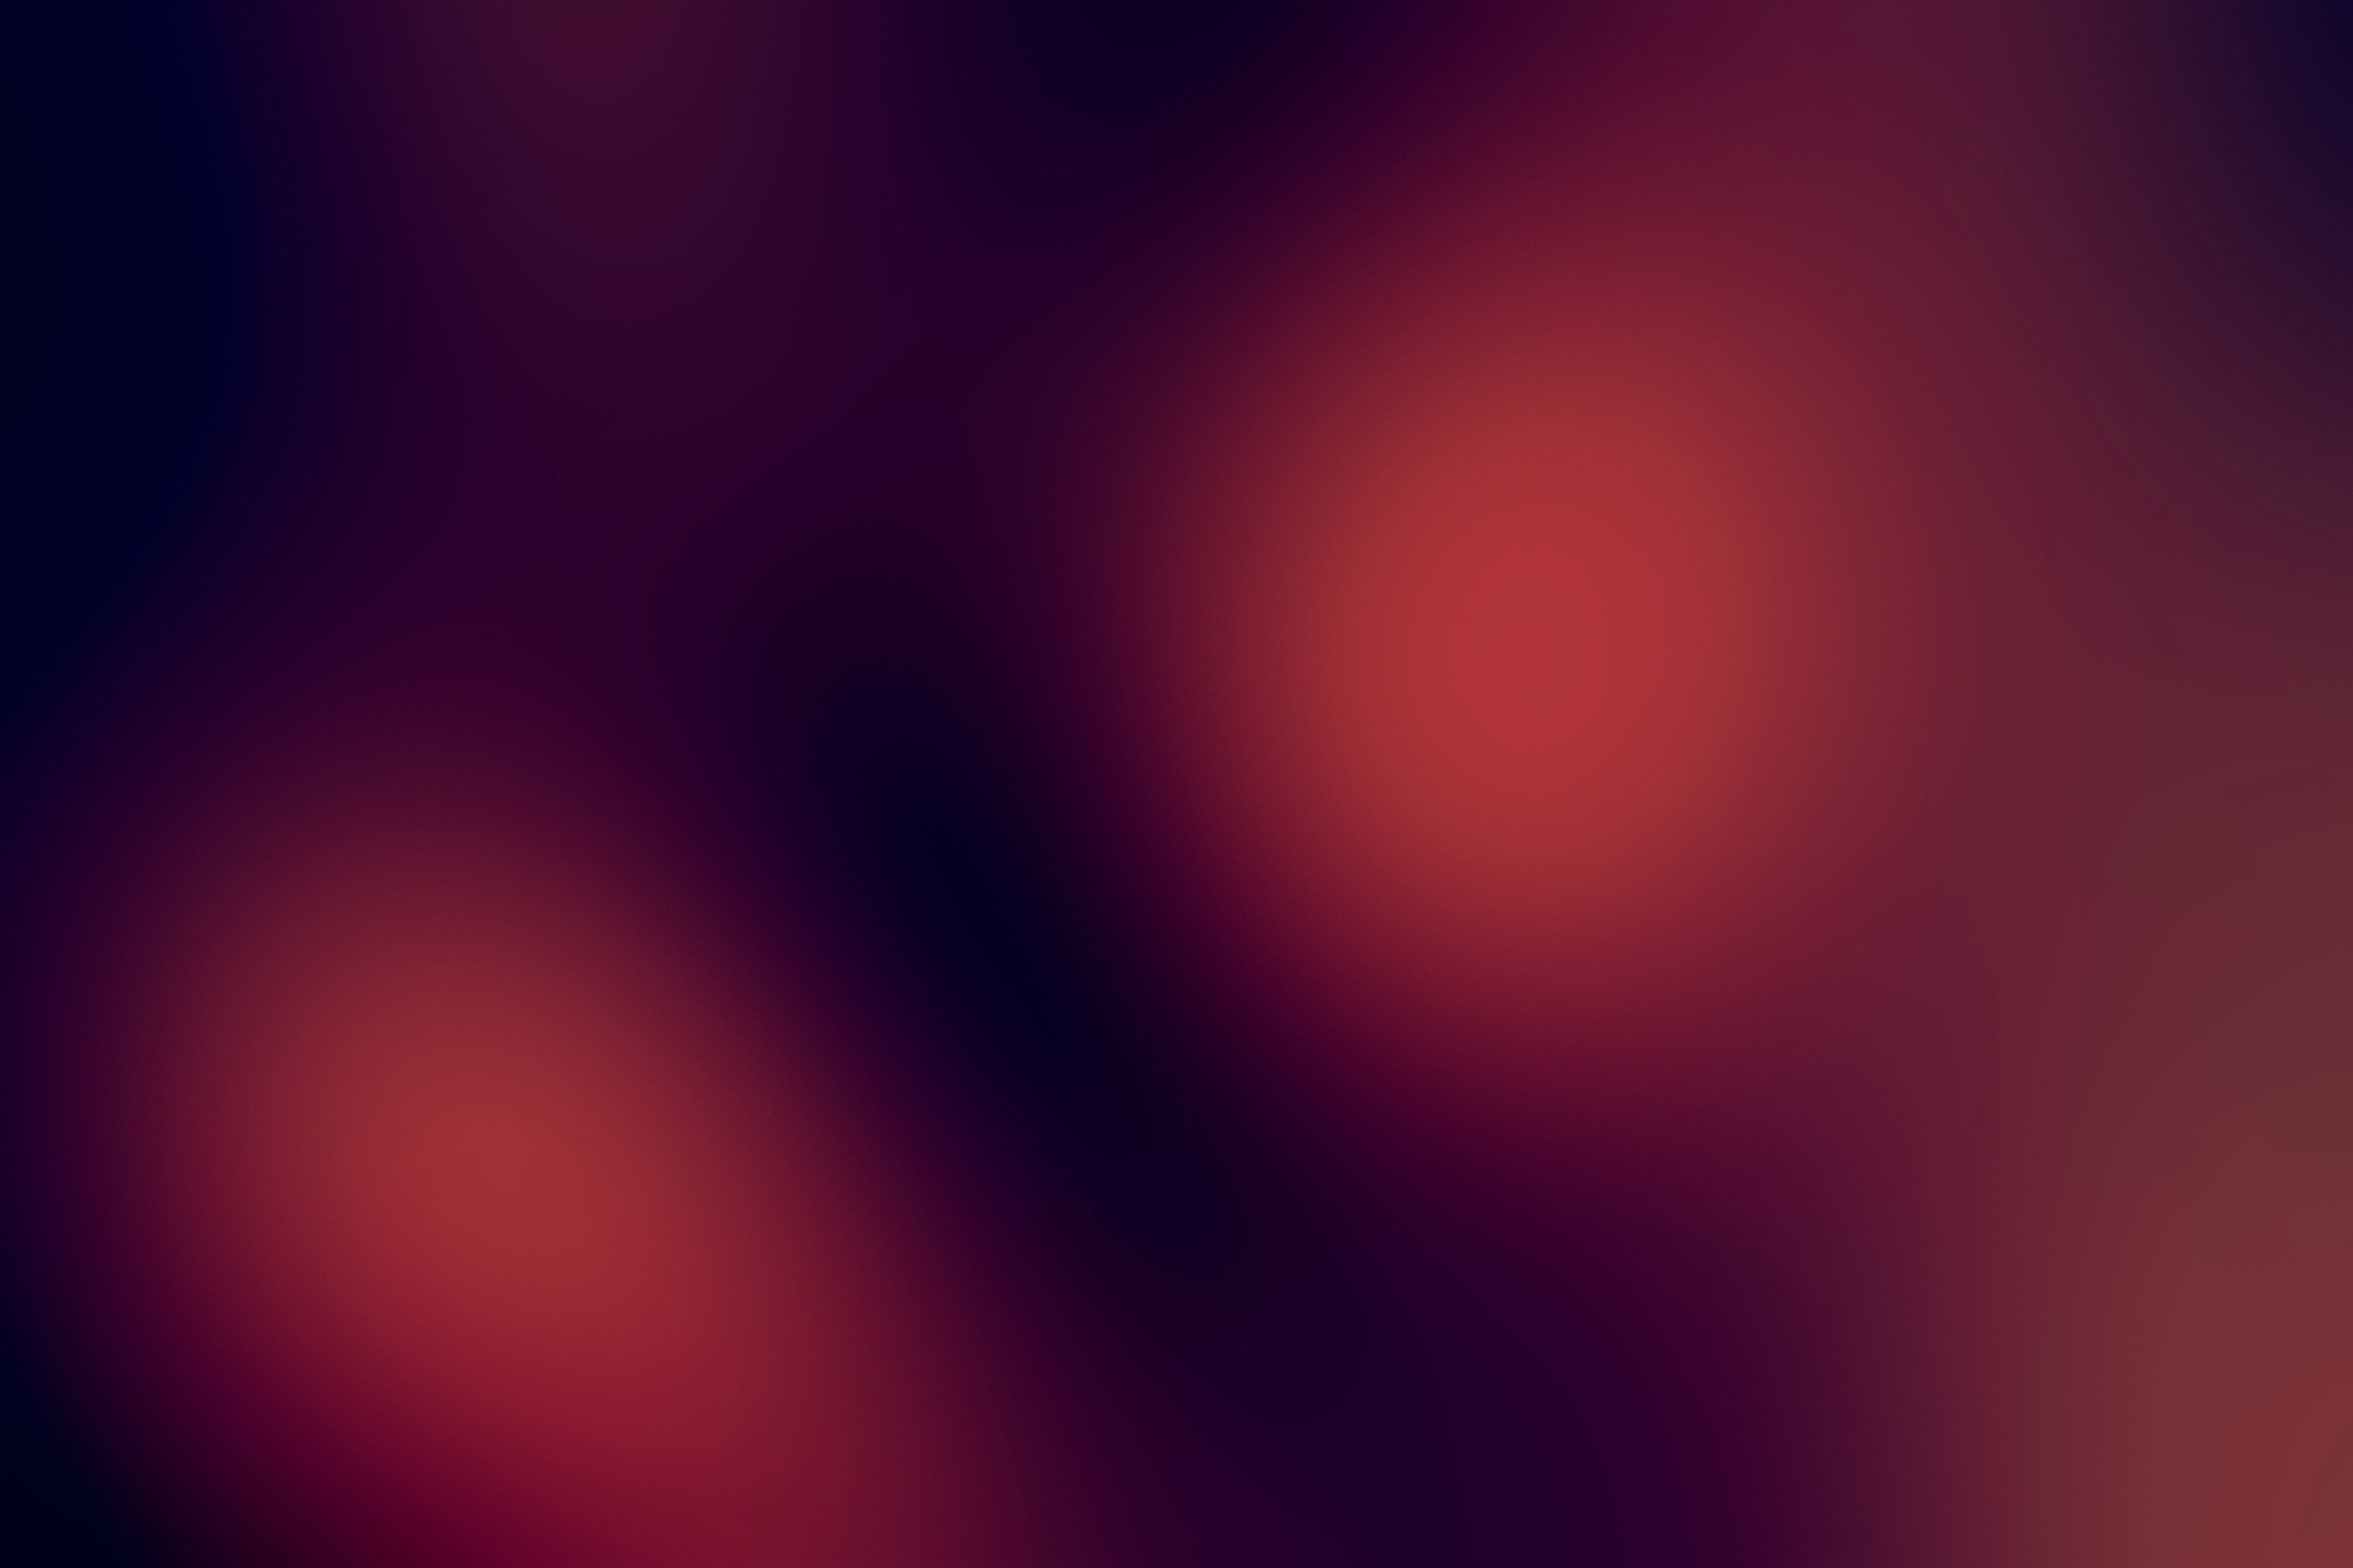
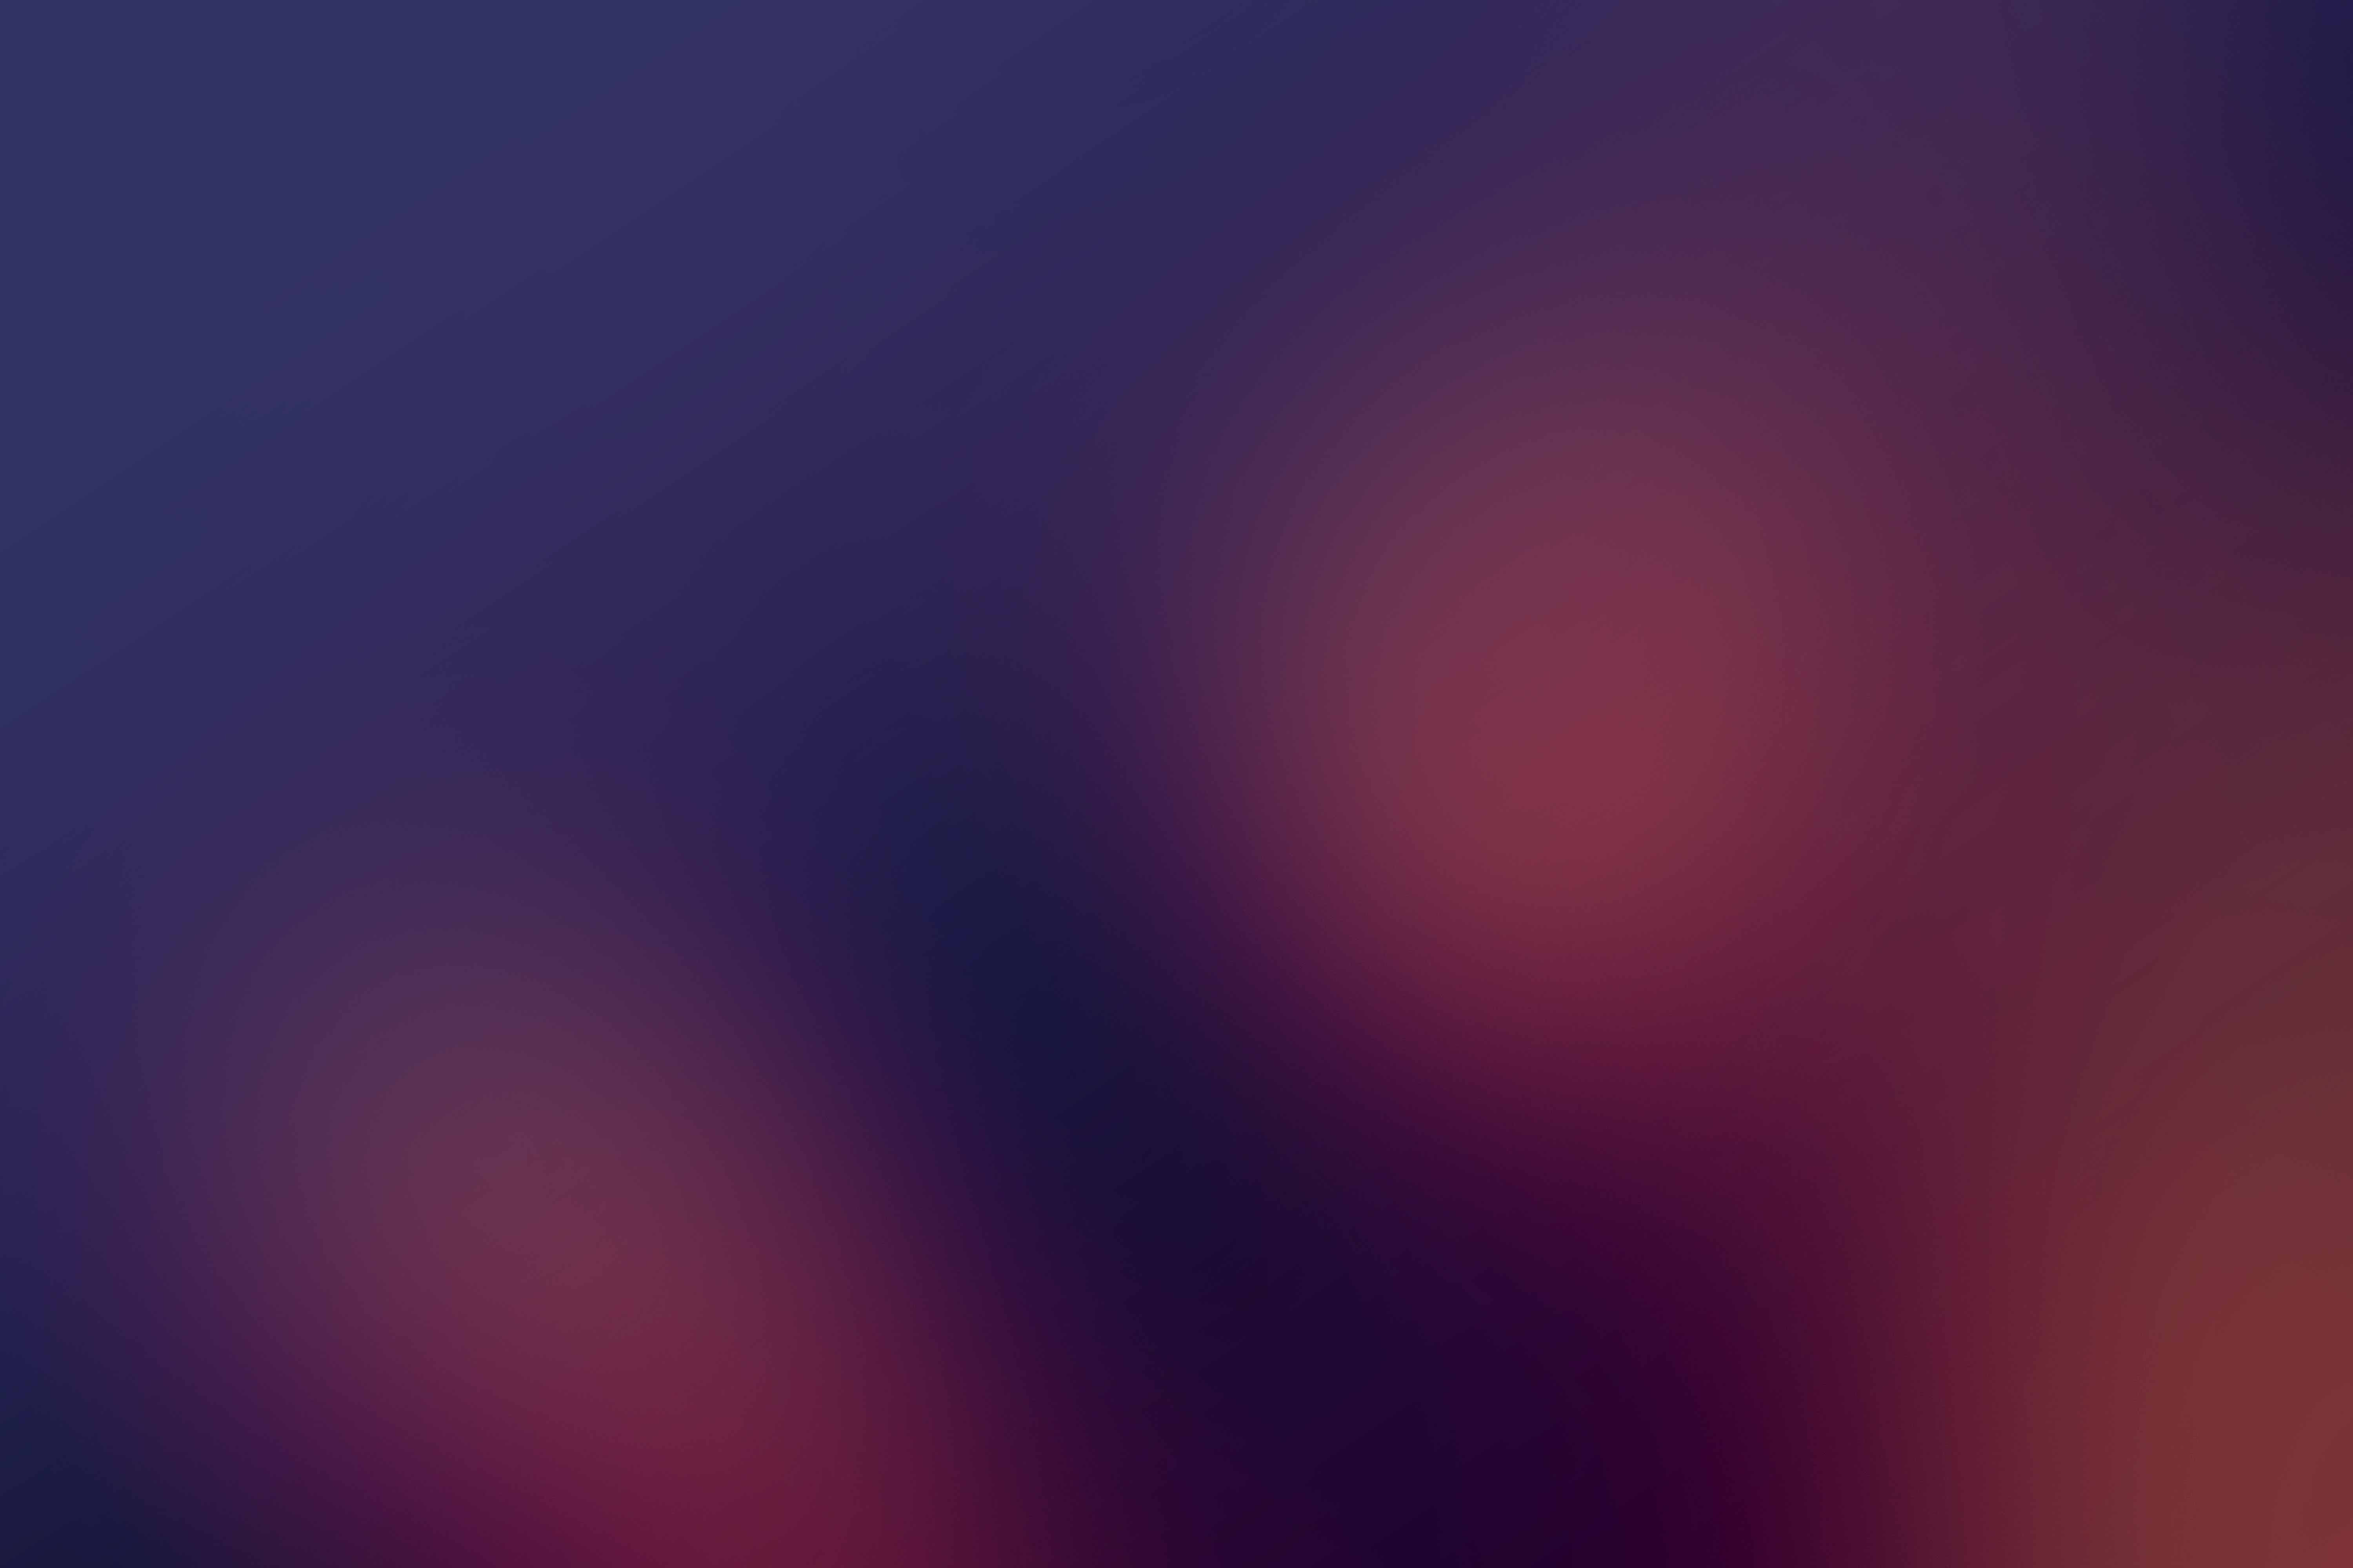
finsihed UI changes

diff --git a/styles/landing.css b/styles/landing.css
@@ -1,5 +1,5 @@
 body.landing {
-  background-color: rgba(174, 49, 43, 0.9);
+  background: rgb(34, 66, 125);
   /* sets the background color to an RGB value (see below) */
 }
 
@@ -8,7 +8,7 @@ body.landing {
   /* positioning will be explained in a resource */
   min-height: 600px;
   /* hero content element must be _at least_ 600 pixels */
-  background-image: url(../assets/images/bloc_jams_bg.jpg);
+  background-image: url(../assets/images/girl-headphones-pearce.jpg);
   background-repeat: no-repeat;
   background-position: center center;
   background-size: cover;
@@ -46,19 +46,20 @@ body.landing {
 }
 
 .point {
+ background-image: linear-gradient(white, rgb(174, 49, 43));
   position: relative;
   padding: 2rem;
   text-align: center;
-  opacity: 0;
+  opacity: 5;
   -webkit-transform: scaleX(0.9) translateY(3rem);
   -moz-transform: scaleX(0.9) translateY(3rem);
   transform: scaleX(0.9) translateY(3rem);
-  -webkit-transition: all 0.25s ease-in-out;
-  -moz-transition: all 0.25s ease-in-out;
-  transition: all 0.25s ease-in-out;
-  -webkit-transition-delay: 0.2s;
-  -moz-transition-delay: 0.2s;
-  transition-delay: 0.2s;
+  -webkit-transition: all 0.5s ease-in-out;
+  -moz-transition: all 0.5s ease-in-out;
+  transition: all 0.5s ease-in-out;
+  -webkit-transition-delay: 0.5s;
+  -moz-transition-delay: 0.5s;
+  transition-delay: 0.5s;
 }
 
 .point .point-title {

diff --git a/index.html b/index.html
@@ -38,8 +38,8 @@
     </div>
     <div class="point column third">
       <span class="ion-radio-waves"></span>
-      <h5 class="point-title">Unlimited, streaming, ad-free</h5>
-      <p class="point-description">No arbitrary limits. No distractions.</p>
+      <h5 class="point-title">Unlimited streaming</h5>
+      <p class="point-description">No arbitrary limits. No distractions. Appellat fore labore arbitror dolore an ne eiusmod concursionibus.</p>
     </div>
     <div class="point column third">
       <span class="ion-iphone"></span>

diff --git a/styles/main.css b/styles/main.css
@@ -29,7 +29,7 @@ body {
 .navbar {
   position: relative;
    padding: 0.5rem;
-   background-color: rgba(174,49,43,.8);
+   background-color:white;
    z-index: 1;
 }
 
@@ -56,7 +56,7 @@ body {
      padding-left: 1rem;
      padding-right: 1rem;
      vertical-align: middle;
-     color: white;
+     color: #AE312B;
      font-size: 0.625rem;
      letter-spacing: 0.05rem;
      font-weight: 700;
